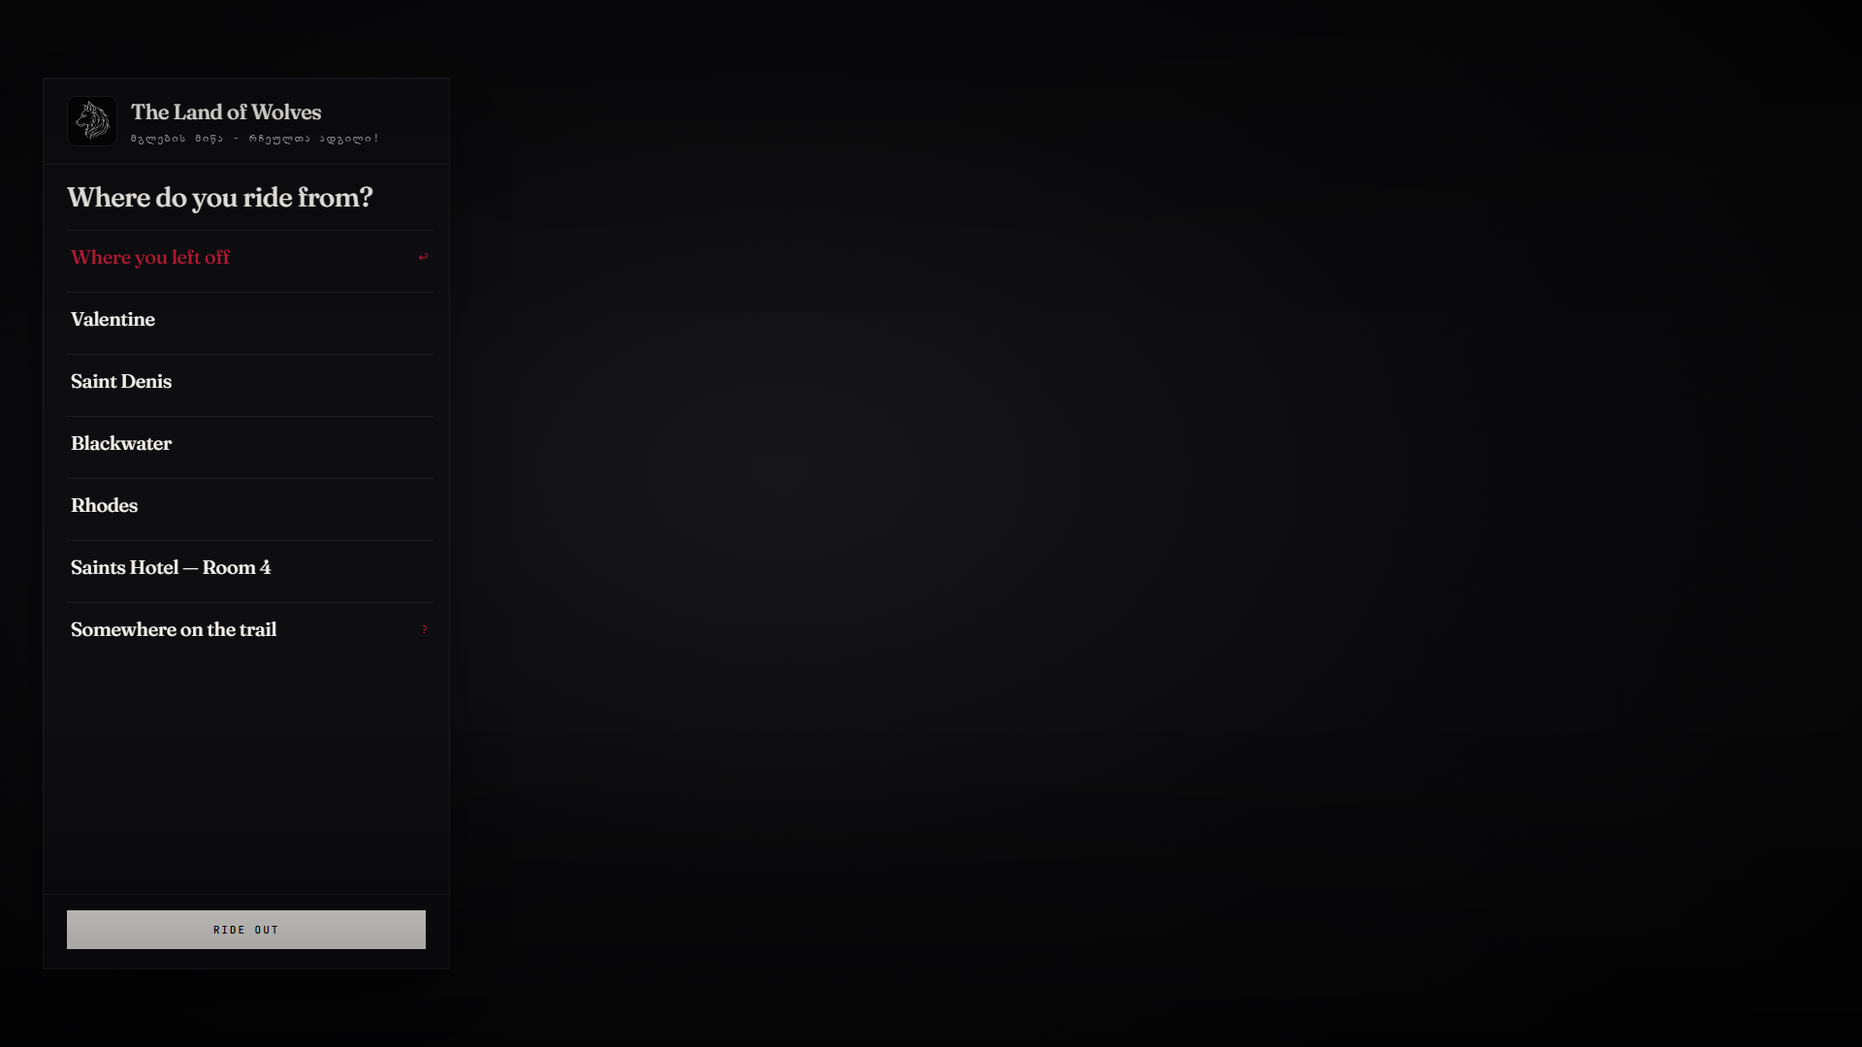
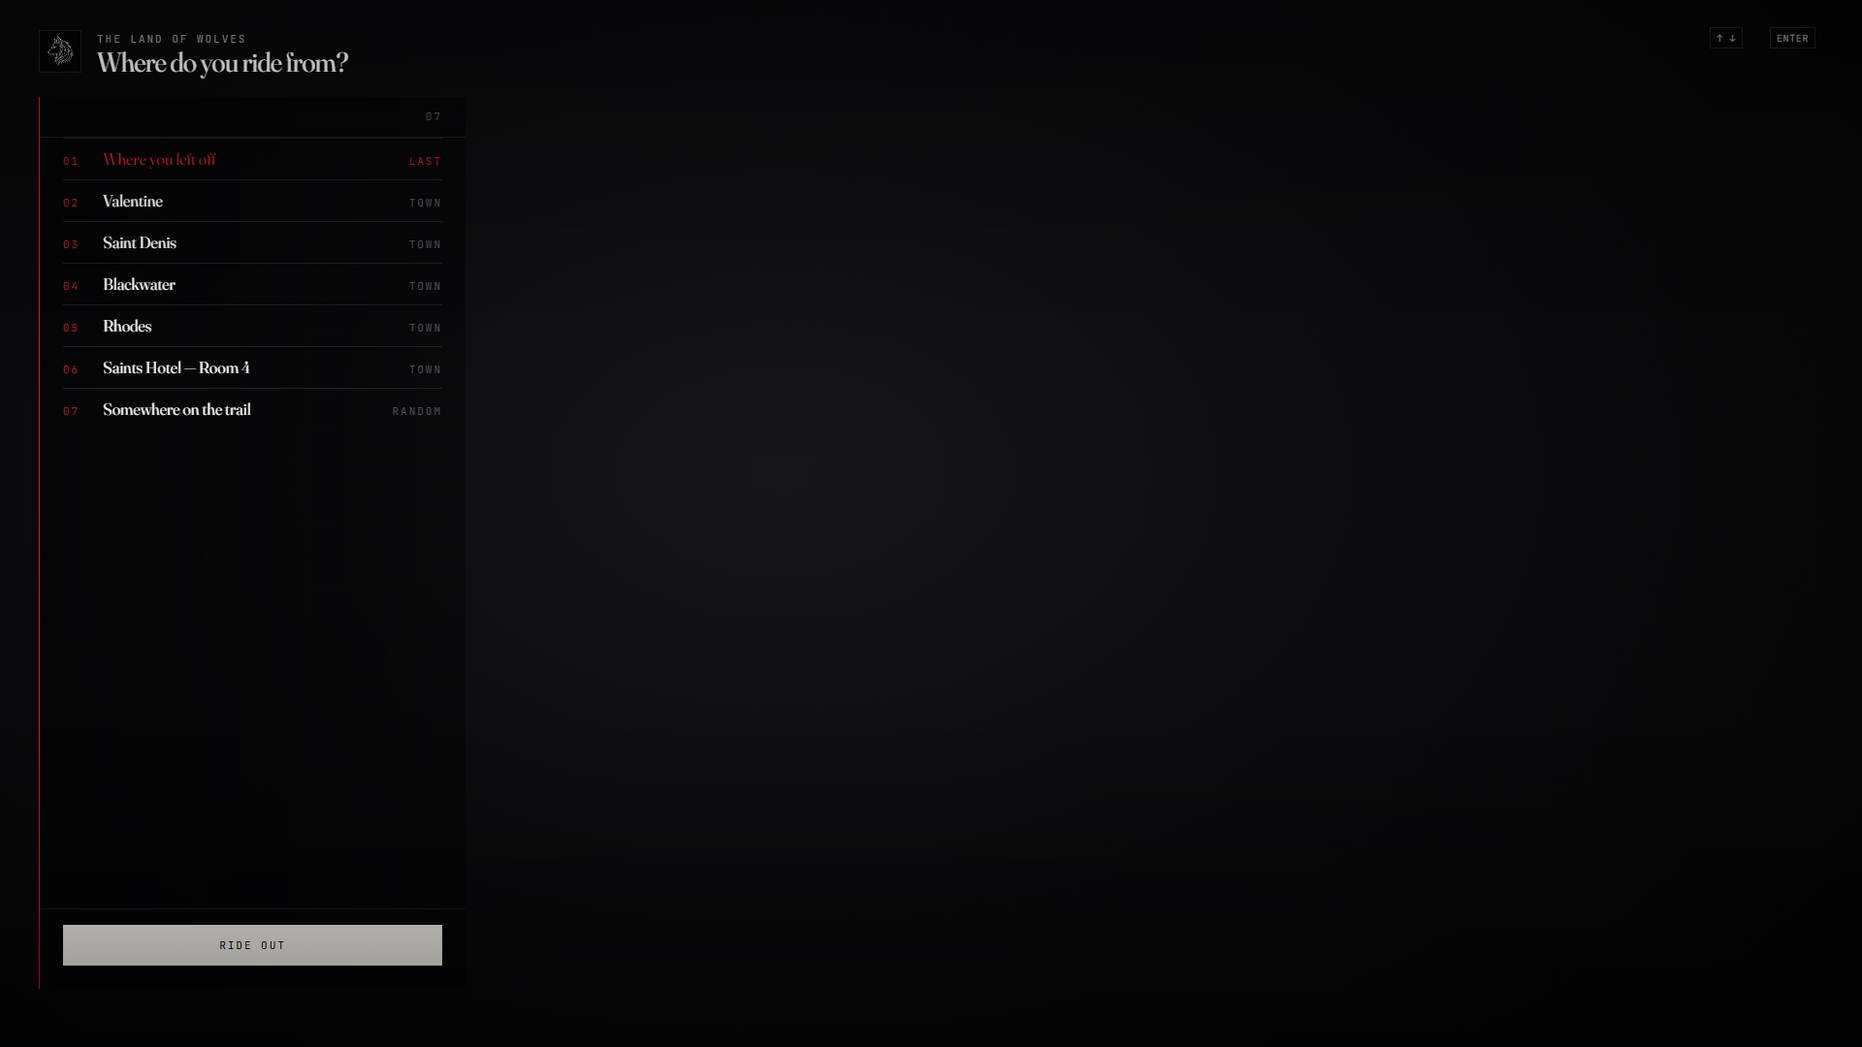
v3.0.0: picker on the LXR UI Kit — index rows, kind tags, keyboard, both themes

diff --git a/html/style.css b/html/style.css
@@ -1,143 +1,19 @@
-/* ═══════════════════════════════════════════════════════════════════════════
-   LXR-SPAWN — NUI stylesheet (LXRCore design tokens)
-   Vanilla CSS, CEF-safe (no nesting, no color-mix, no oklab).
-   © 2026 iBoss21 / LXRCore | lxrcore.com | All Rights Reserved
-   ═══════════════════════════════════════════════════════════════════════════ */
+/* LXR-SPAWN — the spawn picker on top of lxr-ui.css. No colours here: every value is a kit token. */
+.lxr #app { position: fixed; inset: 0; pointer-events: none; }
+.lxr #app > * { pointer-events: auto; }
+.sp-top { position: absolute; top: 28px; left: 40px; right: 40px; display: flex; justify-content: space-between; align-items: flex-start; }
+.sp-brand { display: flex; align-items: center; gap: var(--lxr-s4); }
+.sp-logo { width: 44px; height: 44px; object-fit: contain; background: var(--lxr-void); border: var(--lxr-hairline) solid var(--lxr-edge); border-radius: var(--lxr-radius); padding: 4px; }
+.sp-title { margin: 2px 0 0; font-size: 28px; color: var(--lxr-bone); }
+.sp-hints { display: flex; gap: var(--lxr-s2); align-items: center; font-size: var(--lxr-text-micro); }
+.sp-hints .lxr-key { margin-left: var(--lxr-s3); }
 
-:root {
-    --lxr-font-sans: 'LXR Plain', 'LXR Ka', Inter, 'Segoe UI', 'Sylfaen', sans-serif;
-    --bg: #050506;
-    --surface: #0e0e11;
-    --card: #0e0e11;
-    --text: #f4f2ee;
-    --muted: #9b9aa0;
-    --accent: #c21c37;
-    --danger: #c21c37;
-    --ok: #3f9a6b;
-    --panel-side-gap: 44px;
-    --panel-max-w: min(1400px, calc(100vw - 88px));
-    --panel-max-h: min(920px, calc(100vh - 32px));
-    --lxr-scroll-size: 5px;
-    --lxr-scroll-thumb: rgba(244,242,238,.26);
-    --cfg-r: 0;
-    --cfg-r-sm: 0;
-    --cfg-edge: #1e1e23;
-    --img-lxrcore-logo: url("img/lxrcore-logo.png");
-}
-
-* { box-sizing: border-box; font-family: var(--lxr-font-sans); }
-body { margin: 0; background: transparent; color: var(--text); overflow: hidden; }
-.hidden { display: none !important; }
-
-#app {
-    position: fixed; inset: 0; background: transparent;
-    display: flex; align-items: center; justify-content: flex-start;
-    padding: 16px var(--panel-side-gap); gap: 24px;
-}
-
-/* ── panels ─────────────────────────────────────────────────────────────── */
-.lxr-panel {
-    background: #0e0e11;
-    border: 1px solid var(--cfg-edge);
-    border-radius: var(--cfg-r);
-    box-shadow: 0 24px 60px -20px rgba(0, 0, 0, .9);
-    display: flex; flex-direction: column;
-    max-height: var(--panel-max-h);
-}
-.lxr-panel { width: 420px; height: var(--panel-max-h); }
-.lxr-panel__head { padding: 20px 24px 8px; }
-.lxr-panel__foot { padding: 16px 24px 20px; border-top: 1px solid var(--cfg-edge); }
-
-/* ── banner ─────────────────────────────────────────────────────────────── */
-.lxr-banner {
-    display: flex; align-items: center; gap: 14px;
-    padding: 18px 24px; border-bottom: 1px solid var(--cfg-edge);
-    background: linear-gradient(180deg, rgba(244,242,238,.03), transparent);
-}
-.lxr-banner__avatar-wrap {
-    width: 52px; height: 52px; border-radius: 10px; flex: 0 0 auto;
-    background: #17171b; border: 1px solid var(--accent);
-    display: flex; align-items: center; justify-content: center; overflow: hidden;
-}
-.lxr-banner__avatar { width: 44px; height: 44px; object-fit: contain; }
-.lxr-banner__title { font-size: 18px; font-weight: 700; letter-spacing: .02em; }
-.lxr-banner__sub { font-size: 12px; color: var(--muted); margin-top: 2px; }
-
-/* ── typography ─────────────────────────────────────────────────────────── */
-.lxr-title { margin: 0; font-size: 22px; font-weight: 700; color: var(--text); }
-.lxr-title--lg { font-size: 26px; margin-bottom: 16px; }
-.lxr-muted { margin: 4px 0 0; color: var(--muted); font-size: 13px; }
-.lxr-slots { margin: 10px 0 0; font-size: 12px; letter-spacing: .12em; text-transform: uppercase; color: var(--accent); }
-.lxr-lead { font-size: 15px; line-height: 1.5; margin: 0 0 18px; }
-.lxr-error { color: #c21c37; font-size: 13px; margin: 8px 0 0; }
-
-/* ── list ───────────────────────────────────────────────────────────────── */
-.lxr-list { list-style: none; margin: 0; padding: 8px 16px 8px 24px; overflow-y: auto; flex: 1 1 auto; }
-.lxr-list li { margin: 0 0 10px; }
-.lxr-card {
-    width: 100%; text-align: left; cursor: pointer;
-    background: var(--card); color: var(--text);
-    border: 1px solid var(--cfg-edge); border-radius: var(--cfg-r-sm);
-    padding: 14px 16px; display: flex; align-items: center; gap: 14px;
-    transition: border-color 160ms ease, transform 160ms ease, background 160ms ease;
-}
-.lxr-card:hover { border-color: var(--accent); transform: translateX(2px); }
-.lxr-card--active { border-color: var(--accent); background: rgba(194,28,55,.18); }
-.lxr-card--empty { border-style: dashed; color: var(--muted); justify-content: center; }
-.lxr-card__slot {
-    width: 34px; height: 34px; border-radius: 0; flex: 0 0 auto;
-    border: 1px solid var(--accent); color: var(--accent);
-    display: flex; align-items: center; justify-content: center; font-size: 13px; font-weight: 700;
-}
-.lxr-card__name { font-size: 16px; font-weight: 600; }
-.lxr-card__meta { font-size: 12px; color: var(--muted); margin-top: 2px; }
-
-/* ── buttons ───────────────────────────────────────────────────────────── */
-.cfg-btn {
-    appearance: none; cursor: pointer; font-size: 14px; font-weight: 600;
-    padding: 12px 18px; border-radius: var(--cfg-r-sm);
-    border: 1px solid var(--cfg-edge); background: var(--surface); color: var(--text);
-    transition: background 160ms ease, border-color 160ms ease, transform 120ms ease;
-}
-.cfg-btn:hover { border-color: var(--accent); transform: translateY(-1px); }
-.cfg-btn:disabled { opacity: .45; cursor: not-allowed; transform: none; }
-.cfg-btn--primary { background: var(--accent); color: #050506; border-color: var(--accent); }
-.cfg-btn--primary:hover { background: #c21c37; }
-.cfg-btn--block { width: 100%; }
-.lxr-card__kind { margin-left: auto; font-size: 11px; letter-spacing: .12em; text-transform: uppercase; color: var(--accent); }
-
-/* ── scrollbar ──────────────────────────────────────────────────────────── */
-.lxr-scroll-minimal::-webkit-scrollbar { width: var(--lxr-scroll-size); }
-.lxr-scroll-minimal::-webkit-scrollbar-thumb { background: var(--lxr-scroll-thumb); border-radius: 4px; }
-.lxr-scroll-minimal::-webkit-scrollbar-track { background: transparent; }
-
-@media (max-width: 900px) {
-    #app { padding: 16px; }
-    .lxr-panel { width: 100%; height: auto; max-height: 70vh; }
-}
-
-/* ── LXR UI Kit skin (loaded after lxr-ui.css; no second hue, radius 0) ── */
-.lxr-title, .lxr-title--lg, .lxr-banner__title, .inv-head__title, .lxr-card__name, .cfg-modal h2 { font-family: 'LXR Cut', Fraunces, Georgia, serif; font-weight: 500; letter-spacing: -0.018em; }
-.lxr-title { font-size: 28px; line-height: 0.98; } .lxr-title--lg { font-size: 34px; } .lxr-banner__title { font-size: 22px; }
-.lxr-slots, .inv-weight, .lxr-card__kind, .lxr-card__slot, .inv-amount, .cfg-btn, .inv-slot--hotbar::before, .inv-slot__price, .lxr-banner__sub { font-family: 'LXR Code', 'JetBrains Mono', monospace; text-transform: uppercase; letter-spacing: 0.18em; font-size: 11px; }
-.cfg-btn { font-weight: 500; padding: 12px 22px; background: transparent; border: 1px solid rgba(244,242,238,.26); color: #f4f2ee; transform: none !important; }
-.cfg-btn:hover { border-color: #f4f2ee; background: rgba(244,242,238,.07); }
-.cfg-btn--primary { background: #f4f2ee; color: #050506; border-color: #f4f2ee; }
-.cfg-btn--primary:hover { background: #c21c37; border-color: #c21c37; color: #f4f2ee; }
-.cfg-btn--danger { background: transparent; border-color: #c21c37; color: #c21c37; }
-.cfg-btn--danger:hover { background: #c21c37; color: #f4f2ee; }
-.lxr-card { border: 0; border-top: 1px solid #1e1e23; background: transparent; padding: 14px 4px; transform: none !important; }
-.lxr-card:hover { background: rgba(244,242,238,.03); }
-.lxr-card--active { background: transparent; }
-.lxr-card--active .lxr-card__name { color: #c21c37; }
-.lxr-card__slot { width: auto; height: auto; border: 0; color: #c21c37; font-size: 11px; min-width: 28px; justify-content: flex-start; }
-.lxr-card__name { font-size: 20px; }
-.lxr-card--empty { border-style: solid; border-top: 1px solid #1e1e23; color: #58575e; }
-.lxr-banner, .inv-head { background: none; }
-.lxr-banner__avatar-wrap { background: #050506; border: 1px solid #1e1e23; padding: 4px; }
-.inv-slot__tile { background: rgba(244,242,238,.05); color: #9b9aa0; font-family: 'LXR Cut', serif; }
-.inv-slot--filled:hover, .inv-slot--selected, .inv-slot--over { border-color: #c21c37; }
-.inv-slot__amount { font-family: 'LXR Code', monospace; background: #050506; border-radius: 0; }
-.cfg-input { font-family: 'LXR Plain', Inter, sans-serif; background: #050506; border-color: #1e1e23; }
-.cfg-input:focus { border-color: rgba(244,242,238,.4); }
-.lxr-panel, .inv-panel { box-shadow: 0 24px 60px -24px rgba(0,0,0,.9), 0 1px 0 rgba(244,242,238,.04) inset; }
+.sp-panel { position: absolute; left: 40px; top: 100px; bottom: 60px; width: 440px; display: flex; flex-direction: column; background: var(--lxr-panel-bg); border-left: 1px solid var(--lxr-blood-lit); border-radius: var(--lxr-radius); }
+.sp-panel__head { display: flex; align-items: center; padding: var(--lxr-s3) var(--lxr-s5); font-size: var(--lxr-text-micro); }
+.sp-rows { flex: 1; overflow-y: auto; padding: 0 var(--lxr-s5); }
+.sp-rows .lxr-row { cursor: pointer; }
+.sp-kind { font-family: var(--lxr-font-code); font-size: var(--lxr-text-micro); letter-spacing: var(--lxr-track-mono); text-transform: uppercase; color: var(--lxr-smoke); }
+.lxr-row.is-active .sp-kind { color: var(--lxr-blood-lit); }
+.sp-panel__foot { padding: var(--lxr-s4) var(--lxr-s5) var(--lxr-s5); border-top: var(--lxr-hairline) solid var(--lxr-edge); }
+.sp-go { width: 100%; }
+.lxr.lang-ka .sp-title { font-family: var(--lxr-font-ka); text-transform: none; letter-spacing: 0; }

diff --git a/html/app.js b/html/app.js
@@ -1,83 +1,58 @@
-/* ═══════════════════════════════════════════════════════════════════════════
-   🐺 LXR-SPAWN — NUI logic (vanilla)
-   Receives { action: 'open', options, isNew, locale, server } / { action: 'close' }
-   Posts { preview: { id } } on hover / selection and { choose: { id } } on confirm.
-   © 2026 iBoss21 / LXRCore | lxrcore.com | All Rights Reserved
-   ═══════════════════════════════════════════════════════════════════════════ */
-(() => {
-    'use strict';
+/* LXR-SPAWN — the spawn picker on the LXR UI Kit | © 2026 iBoss21 / LXRCore
+   Receives { action: 'open', options, isNew, locale, server } / { action: 'close' }.
+   Posts { preview: { id } } on hover / selection and { choose: { id } } on confirm. */
+(function () {
+  const $ = (id) => document.getElementById(id);
+  const app = $('app');
+  const RES = (typeof GetParentResourceName === 'function') ? GetParentResourceName() : 'lxr-spawn';
+  let L = {}, options = [], selected = null;
+  const t = (k, fb) => (L[k] !== undefined ? L[k] : (fb !== undefined ? fb : k));
+  const esc = (s) => String(s == null ? '' : s).replace(/[&<>"']/g, c => ({ '&': '&amp;', '<': '&lt;', '>': '&gt;', '"': '&quot;', "'": '&#39;' }[c]));
+  const post = (name, body) => fetch(`https://${RES}/${name}`, { method: 'POST', headers: { 'Content-Type': 'application/json; charset=UTF-8' }, body: JSON.stringify(body || {}) }).then(r => r.json()).catch(() => ({}));
+  const pad = (i) => String(i).padStart(2, '0');
+  function applyLocale() { document.querySelectorAll('[data-l]').forEach(el => { const k = 'ui.' + el.dataset.l; if (L[k]) el.textContent = L[k]; }); }
 
-    const resource = (typeof GetParentResourceName === 'function') ? GetParentResourceName() : 'lxr-spawn';
-    const $ = (id) => document.getElementById(id);
-    let locale = {};
-    let options = [];
-    let selected = null;
-
-    const postNUI = (event, payload) =>
-        fetch(`https://${resource}/${event}`, {
-            method: 'POST',
-            headers: { 'Content-Type': 'application/json; charset=UTF-8' },
-            body: JSON.stringify(payload || {}),
-        }).then((r) => r.json()).catch(() => ({}));
-
-    const t = (key, fallback) => (locale[key] !== undefined ? locale[key] : (fallback !== undefined ? fallback : key));
-
-    function render() {
-        const list = $('options');
-        list.innerHTML = '';
-        options.forEach((opt) => {
-            const li = document.createElement('li');
-            const btn = document.createElement('button');
-            btn.type = 'button';
-            btn.className = 'lxr-card' + (selected === opt.id ? ' lxr-card--active' : '');
-            const name = document.createElement('span');
-            name.className = 'lxr-card__name';
-            name.textContent = opt.label;
-            const kind = document.createElement('span');
-            kind.className = 'lxr-card__kind';
-            kind.textContent = opt.kind === 'last' ? '↩' : opt.kind === 'random' ? '?' : '';
-            btn.append(name, kind);
-            btn.addEventListener('click', () => {
-                selected = opt.id;
-                $('btn-spawn').disabled = false;
-                render();
-                if (opt.coords) postNUI('preview', { id: opt.id });
-            });
-            btn.addEventListener('mouseenter', () => { if (opt.coords) postNUI('preview', { id: opt.id }); });
-            li.appendChild(btn);
-            list.appendChild(li);
-        });
-    }
-
-    $('btn-spawn').addEventListener('click', () => {
-        if (!selected) return;
-        $('btn-spawn').disabled = true;
-        postNUI('choose', { id: selected });
+  function select(opt) { selected = opt.id; $('btn-spawn').disabled = false; render(); if (opt.coords) post('preview', { id: opt.id }); }
+  function render() {
+    const host = $('options'); host.innerHTML = '';
+    $('count').textContent = pad(options.length);
+    options.forEach((opt, i) => {
+      const row = document.createElement('button'); row.className = 'lxr-row lxr-row--compact' + (selected === opt.id ? ' is-active' : '');
+      const kind = opt.kind === 'last' ? t('ui.kind_last', 'last') : opt.kind === 'random' ? t('ui.kind_random', 'random') : t('ui.kind_town', 'town');
+      row.innerHTML = `<span class="lxr-row-index">${pad(i + 1)}</span><span class="lxr-row-body"><span class="lxr-row-name">${esc(opt.label)}</span></span><span class="lxr-grow"></span><span class="sp-kind">${esc(kind)}</span>`;
+      row.addEventListener('click', () => select(opt));
+      row.addEventListener('mouseenter', () => { if (opt.coords) post('preview', { id: opt.id }); });
+      host.appendChild(row);
     });
+  }
+  $('btn-spawn').addEventListener('click', () => { if (!selected) return; $('btn-spawn').disabled = true; post('choose', { id: selected }); });
+  document.addEventListener('keydown', (e) => {
+    if (!options.length) return;
+    const i = options.findIndex(o => o.id === selected);
+    if (e.key === 'ArrowDown') select(options[(i + 1) % options.length]);
+    else if (e.key === 'ArrowUp') select(options[(i - 1 + options.length) % options.length]);
+    else if (e.key === 'Enter' && selected) $('btn-spawn').click();
+  });
 
-    document.addEventListener('keyup', (e) => {
-        if (e.key === 'Enter' && selected) $('btn-spawn').click();
-    });
-
-    window.addEventListener('message', (event) => {
-        { const m = event.data || {}; const th = m.theme || (m.brand && m.brand.theme) || (m.server && m.server.theme); if (th) document.documentElement.dataset.theme = th; }
-        const data = event.data || {};
-        if (data.action === 'open') {
-            locale = data.locale || {};
-            options = Array.isArray(data.options) ? data.options : [];
-            selected = options[0] ? options[0].id : null;
-            $('t-title').textContent = t('ui.title', 'Where do you ride from?');
-            $('t-subtitle').textContent = data.isNew ? t('ui.new_character', '') : t('ui.subtitle', '');
-            $('btn-spawn').textContent = t('ui.spawn', 'Ride out');
-            $('btn-spawn').disabled = !selected;
-            if (data.server) {
-                $('server-name').textContent = data.server.name || 'LXRCore';
-                $('server-tagline').textContent = data.server.tagline || '';
-            }
-            render();
-            $('app').classList.remove('hidden');
-        } else if (data.action === 'close') {
-            $('app').classList.add('hidden');
-        }
-    });
+  function open(m) {
+    L = m.locale || {};
+    document.body.classList.toggle('lang-ka', m.lang === 'ka');
+    options = Array.isArray(m.options) ? m.options : [];
+    selected = options[0] ? options[0].id : null;
+    applyLocale();
+    $('t-title').textContent = t('ui.title', 'Where do you ride from?');
+    $('t-subtitle').textContent = m.isNew ? t('ui.new_character', '') : t('ui.subtitle', '');
+    $('btn-spawn').textContent = t('ui.spawn', 'Ride out');
+    $('btn-spawn').disabled = !selected;
+    $('server-name').textContent = (m.server && m.server.name) || (m.brand && m.brand.name) || 'LXRCore';
+    app.classList.remove('lxr-hidden');
+    render();
+  }
+  window.addEventListener('message', (e) => {
+    const m = e.data || {};
+    const th = m.theme || (m.brand && m.brand.theme) || (m.server && m.server.theme); if (th) document.documentElement.dataset.theme = th;
+    if (m.action === 'open') open(m);
+    else if (m.action === 'close') { app.classList.add('lxr-hidden'); options = []; }
+  });
+  if (window.__LXR_MOCK__) open(window.__LXR_MOCK__);
 })();

diff --git a/html/index.html b/html/index.html
@@ -1,39 +1,28 @@
-<!doctype html>
-<!--
-    LXR-SPAWN — Spawn selection NUI
-    Vanilla HTML/CSS/JS · LXRCore design tokens · Georgian-safe font stack · no CDN
-    © 2026 iBoss21 / LXRCore | lxrcore.com | All Rights Reserved
--->
+<!DOCTYPE html>
+<!-- LXR-SPAWN | LXR UI Kit | © 2026 iBoss21 / LXRCore | lxrcore.com -->
 <html lang="en">
 <head>
-    <meta charset="utf-8">
-    <meta name="viewport" content="width=device-width, initial-scale=1">
-    <title>LXR Spawn</title>
-    <link rel="stylesheet" href="lxr-ui.css">
-    <link rel="stylesheet" href="style.css">
+  <meta charset="utf-8">
+  <title>Ride out</title>
+  <link rel="stylesheet" href="lxr-ui.css">
+  <link rel="stylesheet" href="style.css">
 </head>
 <body class="lxr">
-<div id="app" class="hidden">
-    <aside class="lxr-hit lxr-panel">
-        <header class="lxr-banner">
-            <div class="lxr-banner__avatar-wrap">
-                <img id="brand-logo" class="lxr-banner__avatar" src="img/lxrcore-logo.png" alt="LXRCore">
-            </div>
-            <div class="lxr-banner__text">
-                <div id="server-name" class="lxr-banner__title">LXRCore</div>
-                <div id="server-tagline" class="lxr-banner__sub"></div>
-            </div>
-        </header>
-        <div class="lxr-hit lxr-panel__head">
-            <h1 id="t-title" class="lxr-title">Where do you ride from?</h1>
-            <p id="t-subtitle" class="lxr-muted">Pick a place to begin</p>
-        </div>
-        <ul id="options" class="lxr-list lxr-scroll-minimal"></ul>
-        <footer class="lxr-hit lxr-panel__foot">
-            <button id="btn-spawn" class="cfg-btn cfg-btn--primary cfg-btn--block" disabled>Ride out</button>
-        </footer>
+  <div id="app" class="lxr-hidden">
+    <header class="sp-top lxr-hit">
+      <div class="sp-brand">
+        <img class="sp-logo" src="img/lxrcore-logo.png" alt="">
+        <div><span class="lxr-mono lxr-t-ash" id="server-name"></span><h1 class="lxr-cut sp-title" id="t-title"></h1></div>
+      </div>
+      <div class="sp-hints lxr-mono lxr-t-smoke"><span class="lxr-key">↑ ↓</span><span data-l="hint_pick"></span><span class="lxr-key">Enter</span><span data-l="hint_go"></span></div>
+    </header>
+
+    <aside class="sp-panel lxr-hit">
+      <div class="sp-panel__head lxr-rule-b"><span class="lxr-mono lxr-t-ash" id="t-subtitle"></span><span class="lxr-grow"></span><span class="lxr-mono lxr-t-smoke" id="count"></span></div>
+      <div class="sp-rows" id="options"></div>
+      <footer class="sp-panel__foot"><button class="lxr-btn sp-go" id="btn-spawn" disabled></button></footer>
     </aside>
-</div>
-<script src="app.js"></script>
+  </div>
+  <script src="app.js"></script>
 </body>
 </html>

diff --git a/README.md b/README.md
@@ -8,7 +8,7 @@
 
 # lxr-spawn — Spawn selection for LXRCore v3
 
-![Version](https://img.shields.io/badge/version-2.0.0-c21c37)
+![Version](https://img.shields.io/badge/version-3.0.0-c21c37)
 ![Core](https://img.shields.io/badge/requires-lxr--core_v3-1a1512)
 ![NUI](https://img.shields.io/badge/NUI-vanilla_%C2%B7_no_CDN-brightgreen)
 
